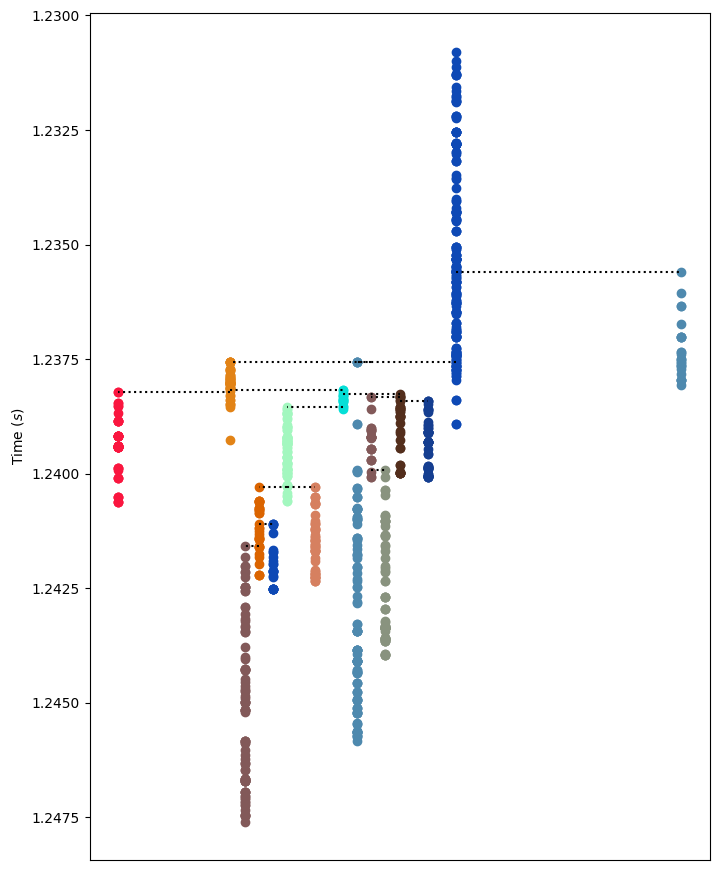
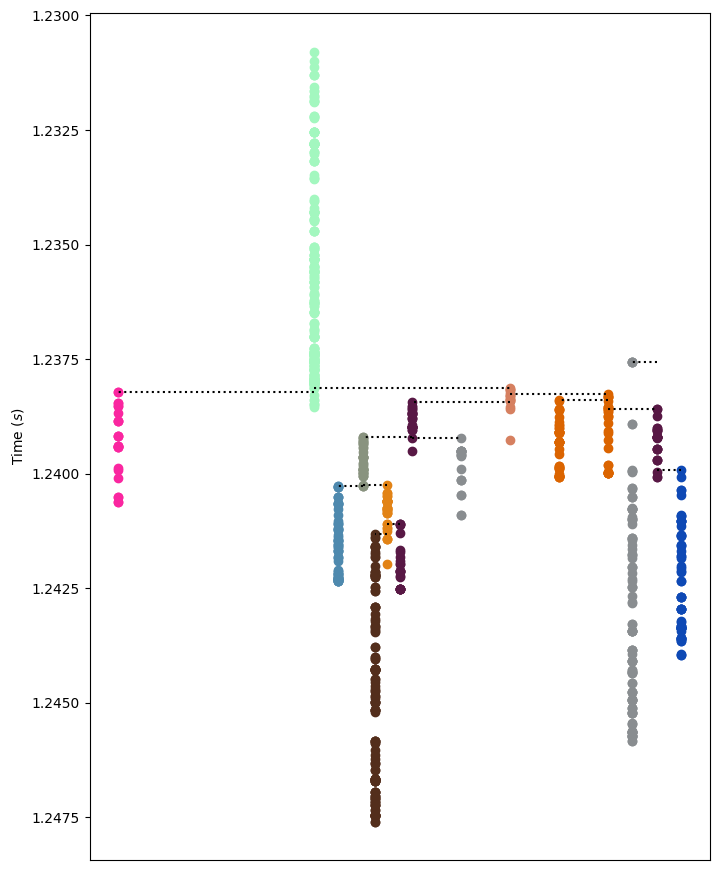
Updated lineplot Srcs18 subset 4

diff --git a/Analyzer_template.py b/Analyzer_template.py
@@ -164,19 +164,19 @@ class LightningReconstructor:
         ax[1].grid(linestyle='dotted')
 
         # Add all the labels
-        ax[0].set_ylabel('Height [m]')
-        ax[1].set_ylabel('Northing [m]')
-        ax[1].set_xlabel('Easting [m]')
-        ax[2].set_xlabel('Height [m]')
+        ax[0].set_ylabel('Height [km]')
+        ax[1].set_ylabel('Northing [km]')
+        ax[1].set_xlabel('Easting [km]')
+        ax[2].set_xlabel('Height [km]')
 
         for _, _, node in RenderTree(self.tree.children[0]):
             counter = int(node.name[1:])
             color = mcolors.hex2color(LIST_OF_COLORS[int(counter % len(LIST_OF_COLORS))])
-            ax[0].scatter([x_plot[ind] for ind in node], [z_plot[ind] for ind in node],
+            ax[0].scatter([x_plot[ind]/1000 for ind in node], [z_plot[ind]/1000 for ind in node],
                           marker='.', s=5, color=color)
-            ax[1].scatter([x_plot[ind] for ind in node], [y_plot[ind] for ind in node],
+            ax[1].scatter([x_plot[ind]/1000 for ind in node], [y_plot[ind]/1000 for ind in node],
                           marker='.', s=5, color=color)
-            ax[2].scatter([z_plot[ind] for ind in node], [y_plot[ind] for ind in node],
+            ax[2].scatter([z_plot[ind]/1000 for ind in node], [y_plot[ind]/1000 for ind in node],
                           marker='.', s=5, color=color)
 
         if filename is not None:

diff --git a/Make_plots_Srcs18.py b/Make_plots_Srcs18.py
@@ -9,15 +9,15 @@ z = data[:, 3]
 t = data[:, 4]
 chi2 = data[:, 5]
 
-dataname = 'Srcs18_subset_3'
+dataname = 'Srcs18_subset_4'
 xmin = x > 60000
 xmax = x < 70000
 ymin = y > -50000
 ymax = y < -40000
 zmin = z > 2000
 zmax = z < 5500
-tmin = t > 1.0
-tmax = t < 1.13
+tmin = t > 1.22
+tmax = t < 1.30
 chi2max = chi2 < 16
 selection = chi2max * zmin * zmax * ymin * ymax * xmin * xmax * tmin * tmax
 
@@ -28,10 +28,12 @@ tcut = t[selection]
 
 analyzer_lightcone = LightningAnalyzer(tcut, xcut, ycut, zcut, -1, weights=(1, 0), d_cut=1000)
 analyzer_lightcone.load_tree_from_file("Data_"+dataname+".pickle")
-analyzer_lightcone.plot_tree(dataname, lonely=False)
-analyzer_lightcone.line_plot(dataname)
+# analyzer_lightcone.plot_tree(dataname, lonely=False)
+# analyzer_lightcone.plot_tree_projections(dataname)
+# analyzer_lightcone.line_plot(dataname)
 
 analyzer_mesh = MeshAnalyzer(tcut, xcut, ycut, zcut, min_voxel_size=50, max_voxel_size=100)
 analyzer_mesh.load_tree_from_file(dataname+"_clean.pickle")
-analyzer_mesh.plot_tree(dataname+"_clean", lonely=False)
+# analyzer_mesh.plot_tree(dataname+"_clean", lonely=False)
+# analyzer_mesh.plot_tree_projections(dataname+"_clean")
 analyzer_mesh.line_plot(dataname+"_clean")

diff --git a/Make_plots_data.py b/Make_plots_data.py
@@ -24,10 +24,12 @@ tcut = t[selection]
 
 analyzer_lightcone = LightconeAnalyzer(tcut, xcut, ycut, zcut, -1, weights=(1, 0), d_cut=1000)
 analyzer_lightcone.load_tree_from_file(dataname+".pickle")
-analyzer_lightcone.plot_tree(dataname, lonely=False)
-analyzer_lightcone.line_plot(dataname)
+# analyzer_lightcone.plot_tree(dataname, lonely=False)
+# analyzer_lightcone.plot_tree_projections(dataname)
+# analyzer_lightcone.line_plot(dataname)
 
 analyzer_mesh = MeshAnalyzer(tcut, xcut, ycut, zcut, min_voxel_size=50, max_voxel_size=200)
 analyzer_mesh.load_tree_from_file(dataname+".pickle")
-analyzer_mesh.plot_tree(dataname, lonely=False)
-analyzer_mesh.line_plot(dataname)
+# analyzer_mesh.plot_tree(dataname, lonely=False)
+# analyzer_mesh.plot_tree_projections(dataname)
+# analyzer_mesh.line_plot(dataname)
